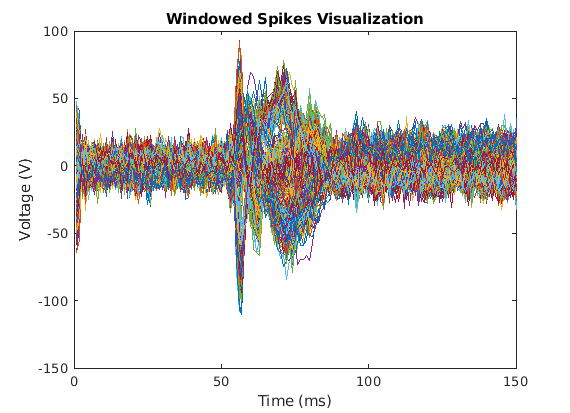
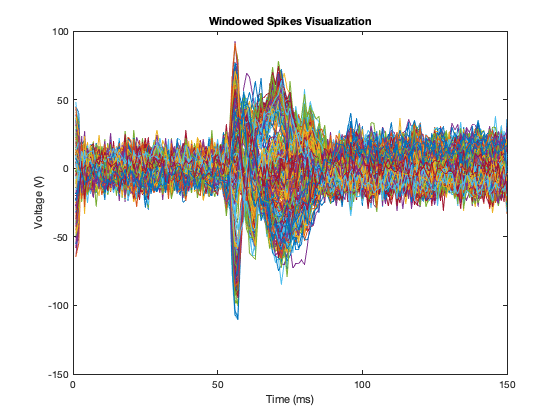
hw2
Q1, Q2, Q4 solved and added. Q3 partly done (might be incorrect, have to recheck).

Changed region(s): [[0.0607, 0.0291, 0.9411, 0.9588], [0.0304, 0.3777, 0.0911, 0.5811], [0.4554, 0.9298, 0.6071, 0.9879]]

diff --git a/hw2_DAKE/html/Q3.html b/hw2_DAKE/html/Q3.html
@@ -6,8 +6,8 @@
    <!--
 This HTML was auto-generated from MATLAB code.
 To make changes, update the MATLAB code and republish this document.
-      --><title>Q3</title><meta name="generator" content="MATLAB 9.9"><link rel="schema.DC" href="http://purl.org/dc/elements/1.1/"><meta name="DC.date" content="2021-10-08"><meta name="DC.source" content="Q3.m"><style type="text/css">
-html,body,div,span,applet,object,iframe,h1,h2,h3,h4,h5,h6,p,blockquote,pre,a,abbr,acronym,address,big,cite,code,del,dfn,em,font,img,ins,kbd,q,s,samp,small,strike,strong,tt,var,b,u,i,center,dl,dt,dd,ol,ul,li,fieldset,form,label,legend,table,caption,tbody,tfoot,thead,tr,th,td{margin:0;padding:0;border:0;outline:0;font-size:100%;vertical-align:baseline;background:transparent}body{line-height:1}ol,ul{list-style:none}blockquote,q{quotes:none}blockquote:before,blockquote:after,q:before,q:after{content:'';content:none}:focus{outine:0}ins{text-decoration:none}del{text-decoration:line-through}table{border-collapse:collapse;border-spacing:0}
+      --><title>Q3</title><meta name="generator" content="MATLAB 9.6"><link rel="schema.DC" href="http://purl.org/dc/elements/1.1/"><meta name="DC.date" content="2021-10-08"><meta name="DC.source" content="Q3.m"><style type="text/css">
+html,body,div,span,applet,object,iframe,h1,h2,h3,h4,h5,h6,p,blockquote,pre,a,abbr,acronym,address,big,cite,code,del,dfn,em,font,img,ins,kbd,q,s,samp,small,strike,strong,sub,sup,tt,var,b,u,i,center,dl,dt,dd,ol,ul,li,fieldset,form,label,legend,table,caption,tbody,tfoot,thead,tr,th,td{margin:0;padding:0;border:0;outline:0;font-size:100%;vertical-align:baseline;background:transparent}body{line-height:1}ol,ul{list-style:none}blockquote,q{quotes:none}blockquote:before,blockquote:after,q:before,q:after{content:'';content:none}:focus{outine:0}ins{text-decoration:none}del{text-decoration:line-through}table{border-collapse:collapse;border-spacing:0}
 
 html { min-height:100%; margin-bottom:1px; }
 html body { height:100%; margin:0px; font-family:Arial, Helvetica, sans-serif; font-size:10px; color:#000; line-height:140%; background:#fff none; overflow-y:scroll; }
@@ -23,7 +23,7 @@ a:visited { color:#004aa0; text-decoration:none; }
 
 p { padding:0px; margin:0px 0px 20px; }
 img { padding:0px; margin:0px 0px 20px; border:none; }
-p img, pre img, tt img, li img, h1 img, h2 img { margin-bottom:0px; }
+p img, pre img, tt img, li img, h1 img, h2 img { margin-bottom:0px; } 
 
 ul { padding:0px; margin:0px 0px 20px 23px; list-style:square; }
 ul li { padding:0px; margin:0px 0px 7px 0px; }
@@ -52,7 +52,6 @@ span.comment { color:#228B22 }
 span.string { color:#A020F0 }
 span.untermstring { color:#B20000 }
 span.syscmd { color:#B28C00 }
-span.typesection { color:#A0522D }
 
 .footer { width:auto; padding:10px 0px; margin:25px 0px 0px; border-top:1px dotted #878787; font-size:0.8em; line-height:140%; font-style:italic; color:#878787; text-align:left; float:none; }
 .footer p { margin:0px; }
@@ -67,14 +66,73 @@ table td { padding:7px 5px; text-align:left; vertical-align:top; border:1px soli
 
 
 
-  </style></head><body><div class="content"><h2>Contents</h2><div><ul><li><a href="#2">a)</a></li></ul></div><pre class="codeinput">clear; clc; close <span class="string">all</span>;
+  </style></head><body><div class="content"><h2>Contents</h2><div><ul><li><a href="#2">a)</a></li><li><a href="#25">b)</a></li></ul></div><pre class="codeinput">clear; clc; close <span class="string">all</span>;
 </pre><h2 id="2">a)</h2><pre class="codeinput">load(<span class="string">'constrainedLS.mat'</span>)
-</pre><p class="footer"><br><a href="https://www.mathworks.com/products/matlab/">Published with MATLAB&reg; R2020b</a><br></p></div><!--
+</pre><p>The original optimization problem can be stated as:</p><p><img src="Q3_eq00843568460094992000.png" alt="$$min_{\beta} \sum_n(\beta^T d_n)^2$$, s.t. $$\beta^Tw = 1$$" style="width:147px;height:24px;"></p><p>Let D be the data matrix which has the data points as its rows and the beta is the vector of the parameters that we are interested in. Hence D*beta becomes a vector with nth row being beta^T * dn</p><p>Using the definition of the norm, we can then see that:</p><p><img src="Q3_eq08052270652043038672.png" alt="$$||D\beta||^2 = \sum_n (\beta^T d_n)^2$$" style="width:98px;height:24px;"></p><p>Thus, the optimization problem can be re-written in the matrix form as:</p><p><img src="Q3_eq14746547864958624784.png" alt="$$min_{\beta} ||D\beta||^2$$, s.t. $$\beta^Tw = 1$$" style="width:125px;height:13px;"></p><p>Now we can simplify the problem by performing SVD over the data matrix D. Doing so, we get:</p><p><img src="Q3_eq06134236201014904150.png" alt="$$D = USV^T$$" style="width:55px;height:11px;"></p><p>Substituting the SVD back into the matrix form of the optimization problem:</p><p><img src="Q3_eq08181483590731499112.png" alt="$$min_{\beta} ||USV^T\beta||^2$$, s.t. $$\beta^Tw = 1$$" style="width:147px;height:13px;"></p><p>Since U is a transformation matrix, we can ignore it for the minimization problem:</p><p><img src="Q3_eq06251742419693713291.png" alt="$$min_{\beta} ||SV^T\beta||^2$$, s.t. $$\beta^Tw = 1$$" style="width:138px;height:13px;"></p><p>Let <img src="Q3_eq06097227888905064991.png" alt="$$\beta^* = V^T\beta $$" style="width:48px;height:13px;">, and <img src="Q3_eq16216299767495698052.png" alt="$$w^* = V^Tw $$" style="width:50px;height:11px;"></p><p>The minimization problem then becomes:</p><p><img src="Q3_eq12303031374738581829.png" alt="$$min_{\beta^*} ||S\beta^*||^2$$, s.t. $$\beta^{*T}w^* = 1$$" style="width:139px;height:13px;"></p><p>Now S is a diagonal matrix of shape 300 * 2. Hence it has the first two rows that is a matrix of two elements along the diagonals s1, s2 with the other two elements being 0. Also all the remaining rows of S are zeros. Let <img src="Q3_eq10676367991786747732.png" alt="$$ S^* $$" style="width:11px;height:9px;"> be the matrix obtained by taking the first two non-zero rows of S and <img src="Q3_eq01539615368168972055.png" alt="$$ S^{\#} $$" style="width:13px;height:11px;"> be the inverse of <img src="Q3_eq10676367991786747732.png" alt="$$ S^* $$" style="width:11px;height:9px;">, then we have:</p><p><img src="Q3_eq10876877815938176214.png" alt="$$min_{\tilde{\beta}} ||\tilde{\beta}||^2$$, s.t. $$\tilde{\beta}^{T}\tilde{w} = 1$$" style="width:116px;height:16px;"></p><p>where,</p><p><img src="Q3_eq11067865167704628638.png" alt="$$\tilde{\beta} = S^{\#}\beta^* $$, and $$\tilde{w} = S^* w^* $$" style="width:122px;height:13px;"></p><p>This can also be written in terms of the original beta and w:</p><p><img src="Q3_eq12278134707838578907.png" alt="$$\tilde{\beta} = S^{\#}V^T\beta $$, and $$\tilde{w} = S^* V^Tw $$" style="width:143px;height:13px;"></p><h2 id="25">b)</h2><p>Performing SVD on the original data:</p><pre class="codeinput">[U, S, V] = svd(data);
+</pre><p class="footer"><br><a href="https://www.mathworks.com/products/matlab/">Published with MATLAB&reg; R2019a</a><br></p></div><!--
 ##### SOURCE BEGIN #####
 clear; clc; close all;
 
 %% a)
 load('constrainedLS.mat')
 
+%%
+% The original optimization problem can be stated as:
+%%
+% $$min_{\beta} \sum_n(\beta^T d_n)^2$$, s.t. $$\beta^Tw = 1$$
+%%
+% Let D be the data matrix which has the data points as its rows and the
+% beta is the vector of the parameters that we are interested in. Hence
+% D*beta becomes a vector with nth row being beta^T * dn
+%%
+% Using the definition of the norm, we can then see that:
+%%
+% $$||D\beta||^2 = \sum_n (\beta^T d_n)^2$$
+%%
+% Thus, the optimization problem can be re-written in the matrix form as:
+%%
+% $$min_{\beta} ||D\beta||^2$$, s.t. $$\beta^Tw = 1$$
+%%
+% Now we can simplify the problem by performing SVD over the data matrix D.
+% Doing so, we get:
+%%
+% $$D = USV^T$$
+%%
+% Substituting the SVD back into the matrix form of the optimization
+% problem:
+%%
+% $$min_{\beta} ||USV^T\beta||^2$$, s.t. $$\beta^Tw = 1$$
+%%
+% Since U is a transformation matrix, we can ignore it for the minimization
+% problem:
+%% 
+% $$min_{\beta} ||SV^T\beta||^2$$, s.t. $$\beta^Tw = 1$$
+%%
+% Let $$\beta^* = V^T\beta $$, and $$w^* = V^Tw $$
+%%
+% The minimization problem then becomes:
+%%
+% $$min_{\beta^*} ||S\beta^*||^2$$, s.t. $$\beta^{*T}w^* = 1$$
+%%
+% Now S is a diagonal matrix of shape 300 * 2. Hence it has the first two
+% rows that is a matrix of two elements along the diagonals s1, s2 with the
+% other two elements being 0. Also all the remaining rows of S are zeros.
+% Let $$ S^* $$ be the matrix obtained by taking the first two non-zero rows
+% of S and $$ S^{\#} $$ be the inverse of $$ S^* $$, then we have:
+%%
+% $$min_{\tilde{\beta}} ||\tilde{\beta}||^2$$, s.t. $$\tilde{\beta}^{T}\tilde{w} = 1$$
+%%
+% where,
+%%
+% $$\tilde{\beta} = S^{\#}\beta^* $$, and $$\tilde{w} = S^* w^* $$
+%%
+% This can also be written in terms of the original beta and w:
+%%
+% $$\tilde{\beta} = S^{\#}V^T\beta $$, and $$\tilde{w} = S^* V^Tw $$
+
+%% b)
+% Performing SVD on the original data:
+%%
+[U, S, V] = svd(data);
 ##### SOURCE END #####
 --></body></html>

diff --git a/hw2_DAKE/html/Q4.html b/hw2_DAKE/html/Q4.html
@@ -6,8 +6,8 @@
    <!--
 This HTML was auto-generated from MATLAB code.
 To make changes, update the MATLAB code and republish this document.
-      --><title>Q4</title><meta name="generator" content="MATLAB 9.9"><link rel="schema.DC" href="http://purl.org/dc/elements/1.1/"><meta name="DC.date" content="2021-10-08"><meta name="DC.source" content="Q4.m"><style type="text/css">
-html,body,div,span,applet,object,iframe,h1,h2,h3,h4,h5,h6,p,blockquote,pre,a,abbr,acronym,address,big,cite,code,del,dfn,em,font,img,ins,kbd,q,s,samp,small,strike,strong,tt,var,b,u,i,center,dl,dt,dd,ol,ul,li,fieldset,form,label,legend,table,caption,tbody,tfoot,thead,tr,th,td{margin:0;padding:0;border:0;outline:0;font-size:100%;vertical-align:baseline;background:transparent}body{line-height:1}ol,ul{list-style:none}blockquote,q{quotes:none}blockquote:before,blockquote:after,q:before,q:after{content:'';content:none}:focus{outine:0}ins{text-decoration:none}del{text-decoration:line-through}table{border-collapse:collapse;border-spacing:0}
+      --><title>Q4</title><meta name="generator" content="MATLAB 9.6"><link rel="schema.DC" href="http://purl.org/dc/elements/1.1/"><meta name="DC.date" content="2021-10-08"><meta name="DC.source" content="Q4.m"><style type="text/css">
+html,body,div,span,applet,object,iframe,h1,h2,h3,h4,h5,h6,p,blockquote,pre,a,abbr,acronym,address,big,cite,code,del,dfn,em,font,img,ins,kbd,q,s,samp,small,strike,strong,sub,sup,tt,var,b,u,i,center,dl,dt,dd,ol,ul,li,fieldset,form,label,legend,table,caption,tbody,tfoot,thead,tr,th,td{margin:0;padding:0;border:0;outline:0;font-size:100%;vertical-align:baseline;background:transparent}body{line-height:1}ol,ul{list-style:none}blockquote,q{quotes:none}blockquote:before,blockquote:after,q:before,q:after{content:'';content:none}:focus{outine:0}ins{text-decoration:none}del{text-decoration:line-through}table{border-collapse:collapse;border-spacing:0}
 
 html { min-height:100%; margin-bottom:1px; }
 html body { height:100%; margin:0px; font-family:Arial, Helvetica, sans-serif; font-size:10px; color:#000; line-height:140%; background:#fff none; overflow-y:scroll; }
@@ -23,7 +23,7 @@ a:visited { color:#004aa0; text-decoration:none; }
 
 p { padding:0px; margin:0px 0px 20px; }
 img { padding:0px; margin:0px 0px 20px; border:none; }
-p img, pre img, tt img, li img, h1 img, h2 img { margin-bottom:0px; }
+p img, pre img, tt img, li img, h1 img, h2 img { margin-bottom:0px; } 
 
 ul { padding:0px; margin:0px 0px 20px 23px; list-style:square; }
 ul li { padding:0px; margin:0px 0px 7px 0px; }
@@ -52,7 +52,6 @@ span.comment { color:#228B22 }
 span.string { color:#A020F0 }
 span.untermstring { color:#B20000 }
 span.syscmd { color:#B28C00 }
-span.typesection { color:#A0522D }
 
 .footer { width:auto; padding:10px 0px; margin:25px 0px 0px; border-top:1px dotted #878787; font-size:0.8em; line-height:140%; font-style:italic; color:#878787; text-align:left; float:none; }
 .footer p { margin:0px; }
@@ -70,40 +69,105 @@ table td { padding:7px 5px; text-align:left; vertical-align:top; border:1px soli
   </style></head><body><div class="content"><h2>Contents</h2><div><ul><li><a href="#2">a)</a></li></ul></div><pre class="codeinput">clear; clc; close <span class="string">all</span>;
 </pre><h2 id="2">a)</h2><pre class="codeinput">load(<span class="string">'windowedSpikes.mat'</span>)
 
+figure(1);
 plot(data')
 xlabel(<span class="string">'Time (ms)'</span>)
 ylabel(<span class="string">'Voltage (V)'</span>)
 title(<span class="string">'Windowed Spikes Visualization'</span>)
-</pre><img vspace="5" hspace="5" src="Q4_01.png" alt=""> <pre class="codeinput">mean_data = mean(data, 1);
-centered_data = ones(size(data, 1), 1) * data
-C = data'*data;
+</pre><img vspace="5" hspace="5" src="Q4_01.png" alt=""> <pre class="codeinput">figure(2);
+plot(data(randi([1, size(data, 1)], 20, 1), :)')
+xlabel(<span class="string">'Time (ms)'</span>)
+ylabel(<span class="string">'Voltage (V)'</span>)
+title(<span class="string">'Windowed Spikes Visualization (20 random neurons)'</span>)
+</pre><img vspace="5" hspace="5" src="Q4_02.png" alt=""> <pre class="codeinput">mean_data = mean(data, 1);
+centered_data = data - ones(size(data, 1), 1) * mean_data;
+C = centered_data'*centered_data;
 [V, D] = eig(C);
 [d,ind] = sort(diag(D), <span class="string">'descend'</span>);
 D = D(ind,ind);
 V = V(:,ind);
-</pre><pre class="codeoutput error">Error using *
-Incorrect dimensions for matrix multiplication. Check that the number of columns in the first matrix matches the number of rows in the second matrix. To perform elementwise multiplication, use '.*'.
 
-Error in Q4 (line 12)
-centered_data = ones(size(data, 1), 1) * data
-</pre><p class="footer"><br><a href="https://www.mathworks.com/products/matlab/">Published with MATLAB&reg; R2020b</a><br></p></div><!--
+figure(3);
+plot(log(d), <span class="string">'r-o'</span>, <span class="string">'MarkerSize'</span>, 2)
+xlabel(<span class="string">'Ranking of the eigenvalue'</span>)
+ylabel(<span class="string">'log(eigenvalue)'</span>)
+title(<span class="string">'Eigenvalues in descending order'</span>)
+</pre><img vspace="5" hspace="5" src="Q4_03.png" alt=""> <pre class="codeinput">PC1 =V(:,1);
+PC2 = V(:,2);
+
+projPC1 = centered_data * PC1;
+projPC2 = centered_data * PC2;
+<span class="comment">%plot(PC1, PC2, 'k')</span>
+figure(4);
+scatter(projPC1, projPC2, <span class="string">'r'</span>, <span class="string">'filled'</span>)
+xlabel(<span class="string">'PC1'</span>)
+ylabel(<span class="string">'PC2'</span>)
+title(<span class="string">'PCA of spike waveforms'</span>)
+</pre><img vspace="5" hspace="5" src="Q4_04.png" alt=""> <pre class="codeinput">PC3 = V(:, 3);
+projPC3 = centered_data * PC3;
+figure(5);
+scatter3(projPC1, projPC2, projPC3, <span class="string">'r'</span>, <span class="string">'filled'</span>)
+xlabel(<span class="string">'PC1'</span>)
+ylabel(<span class="string">'PC2'</span>)
+zlabel(<span class="string">'PC3'</span>)
+title(<span class="string">'PCA of spike waveforms'</span>)
+</pre><img vspace="5" hspace="5" src="Q4_05.png" alt=""> <p class="footer"><br><a href="https://www.mathworks.com/products/matlab/">Published with MATLAB&reg; R2019a</a><br></p></div><!--
 ##### SOURCE BEGIN #####
 clear; clc; close all;
 
 %% a)
 load('windowedSpikes.mat')
 
+figure(1);
 plot(data')
 xlabel('Time (ms)')
 ylabel('Voltage (V)')
 title('Windowed Spikes Visualization')
+
+%%
+figure(2);
+plot(data(randi([1, size(data, 1)], 20, 1), :)')
+xlabel('Time (ms)')
+ylabel('Voltage (V)')
+title('Windowed Spikes Visualization (20 random neurons)')
+
+
 %%
 mean_data = mean(data, 1);
-centered_data = ones(size(data, 1), 1) * data
-C = data'*data;
+centered_data = data - ones(size(data, 1), 1) * mean_data;
+C = centered_data'*centered_data;
 [V, D] = eig(C);
 [d,ind] = sort(diag(D), 'descend'); 
 D = D(ind,ind);
 V = V(:,ind);
+
+figure(3);
+plot(log(d), 'r-o', 'MarkerSize', 2)
+xlabel('Ranking of the eigenvalue')
+ylabel('log(eigenvalue)')
+title('Eigenvalues in descending order')
+
+%%
+PC1 =V(:,1);
+PC2 = V(:,2);
+
+projPC1 = centered_data * PC1;
+projPC2 = centered_data * PC2;
+%plot(PC1, PC2, 'k')
+figure(4);
+scatter(projPC1, projPC2, 'r', 'filled')
+xlabel('PC1')
+ylabel('PC2')
+title('PCA of spike waveforms')
+
+%%
+PC3 = V(:, 3);
+projPC3 = centered_data * PC3;
+figure(5);
+scatter3(projPC1, projPC2, projPC3, 'r', 'filled')
+xlabel('PC1')
+ylabel('PC2')
+zlabel('PC3')
+title('PCA of spike waveforms')
 ##### SOURCE END #####
 --></body></html>

diff --git a/hw2_DAKE/html/Q2.html b/hw2_DAKE/html/Q2.html
@@ -6,8 +6,8 @@
    <!--
 This HTML was auto-generated from MATLAB code.
 To make changes, update the MATLAB code and republish this document.
-      --><title>Q2</title><meta name="generator" content="MATLAB 9.9"><link rel="schema.DC" href="http://purl.org/dc/elements/1.1/"><meta name="DC.date" content="2021-10-08"><meta name="DC.source" content="Q2.m"><style type="text/css">
-html,body,div,span,applet,object,iframe,h1,h2,h3,h4,h5,h6,p,blockquote,pre,a,abbr,acronym,address,big,cite,code,del,dfn,em,font,img,ins,kbd,q,s,samp,small,strike,strong,tt,var,b,u,i,center,dl,dt,dd,ol,ul,li,fieldset,form,label,legend,table,caption,tbody,tfoot,thead,tr,th,td{margin:0;padding:0;border:0;outline:0;font-size:100%;vertical-align:baseline;background:transparent}body{line-height:1}ol,ul{list-style:none}blockquote,q{quotes:none}blockquote:before,blockquote:after,q:before,q:after{content:'';content:none}:focus{outine:0}ins{text-decoration:none}del{text-decoration:line-through}table{border-collapse:collapse;border-spacing:0}
+      --><title>Q2</title><meta name="generator" content="MATLAB 9.6"><link rel="schema.DC" href="http://purl.org/dc/elements/1.1/"><meta name="DC.date" content="2021-10-08"><meta name="DC.source" content="Q2.m"><style type="text/css">
+html,body,div,span,applet,object,iframe,h1,h2,h3,h4,h5,h6,p,blockquote,pre,a,abbr,acronym,address,big,cite,code,del,dfn,em,font,img,ins,kbd,q,s,samp,small,strike,strong,sub,sup,tt,var,b,u,i,center,dl,dt,dd,ol,ul,li,fieldset,form,label,legend,table,caption,tbody,tfoot,thead,tr,th,td{margin:0;padding:0;border:0;outline:0;font-size:100%;vertical-align:baseline;background:transparent}body{line-height:1}ol,ul{list-style:none}blockquote,q{quotes:none}blockquote:before,blockquote:after,q:before,q:after{content:'';content:none}:focus{outine:0}ins{text-decoration:none}del{text-decoration:line-through}table{border-collapse:collapse;border-spacing:0}
 
 html { min-height:100%; margin-bottom:1px; }
 html body { height:100%; margin:0px; font-family:Arial, Helvetica, sans-serif; font-size:10px; color:#000; line-height:140%; background:#fff none; overflow-y:scroll; }
@@ -23,7 +23,7 @@ a:visited { color:#004aa0; text-decoration:none; }
 
 p { padding:0px; margin:0px 0px 20px; }
 img { padding:0px; margin:0px 0px 20px; border:none; }
-p img, pre img, tt img, li img, h1 img, h2 img { margin-bottom:0px; }
+p img, pre img, tt img, li img, h1 img, h2 img { margin-bottom:0px; } 
 
 ul { padding:0px; margin:0px 0px 20px 23px; list-style:square; }
 ul li { padding:0px; margin:0px 0px 7px 0px; }
@@ -52,7 +52,6 @@ span.comment { color:#228B22 }
 span.string { color:#A020F0 }
 span.untermstring { color:#B20000 }
 span.syscmd { color:#B28C00 }
-span.typesection { color:#A0522D }
 
 .footer { width:auto; padding:10px 0px; margin:25px 0px 0px; border-top:1px dotted #878787; font-size:0.8em; line-height:140%; font-style:italic; color:#878787; text-align:left; float:none; }
 .footer p { margin:0px; }
@@ -110,7 +109,7 @@ plot(orders, Errors, <span class="string">'k-o'</span>, <span class="string">'Li
 xlabel(<span class="string">'Order of Polynomial'</span>)
 ylabel(<span class="string">'Squared errors'</span>)
 title(<span class="string">'Squared errors as a function of degree of polynomial'</span>)
-</pre><img vspace="5" hspace="5" src="Q2_02.png" alt=""> <p>The squared errors decrease monotonically as the order of the polynomial increases. However, this results in overfitting of the data. The goal of the regression is to model the data as closely as possible with as minimal parameters as we can. From the graph of the models, we see that the models with degree 0, 1, and 2 are an underfit. Model 3 has a lower error but seems to assume that the data flattens on the lower end of x, which might or might not be the case. Models 4 and 5 are good fit to the data and exhibit similar squared-errors. Therefore, the model with the least order that has the best fit but also does not end up fitting the noise is a good model. The best model in this scenario is the polynomial of order 4.</p><p class="footer"><br><a href="https://www.mathworks.com/products/matlab/">Published with MATLAB&reg; R2020b</a><br></p></div><!--
+</pre><img vspace="5" hspace="5" src="Q2_02.png" alt=""> <p>The squared errors decrease monotonically as the order of the polynomial increases. However, this results in overfitting of the data. The goal of the regression is to model the data as closely as possible with as minimal parameters as we can. From the graph of the models, we see that the models with degree 0, 1, and 2 are an underfit. Model 3 has a lower error but seems to assume that the data flattens on the lower end of x, which might or might not be the case. Models 4 and 5 are good fit to the data and exhibit similar squared-errors. Therefore, the model with the least order that has the best fit but also does not end up fitting the noise is a good model. The best model in this scenario is the polynomial of order 4.</p><p class="footer"><br><a href="https://www.mathworks.com/products/matlab/">Published with MATLAB&reg; R2019a</a><br></p></div><!--
 ##### SOURCE BEGIN #####
 clear; clc; close all;
 
